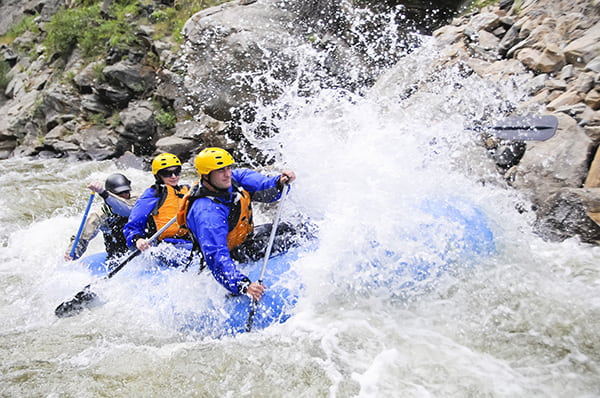
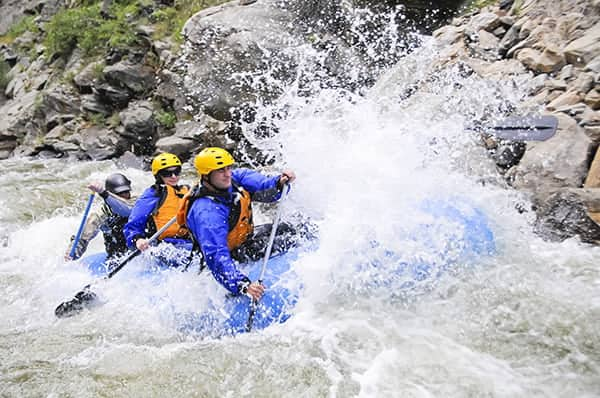
wwr edit

diff --git a/wwr/index.html b/wwr/index.html
@@ -34,7 +34,7 @@
         <section class="trip-types">
             <h2>The Ultimate Rafting Experience</h2>
             <figure>
-                <img src="images/rafting-one.webp" alt="Rafting Image 1">
+                <img src="images/rafting-one.jpg" alt="Rafting Image 1">
                 <figcaption>Intense Rafting</figcaption>
             </figure>
             <figure>

diff --git a/wwr/about.html b/wwr/about.html
@@ -45,7 +45,7 @@
         <section class="adventures">
             <h2>Adventure Awaits You!</h2>
             <figure>
-                <img src="images/rafting-one.webp" alt="Rafting Image 1">
+                <img src="images/rafting-one.jpg" alt="Rafting Image 1">
                 <figcaption>Blue Rafts</figcaption>
             </figure>
             <figure>
